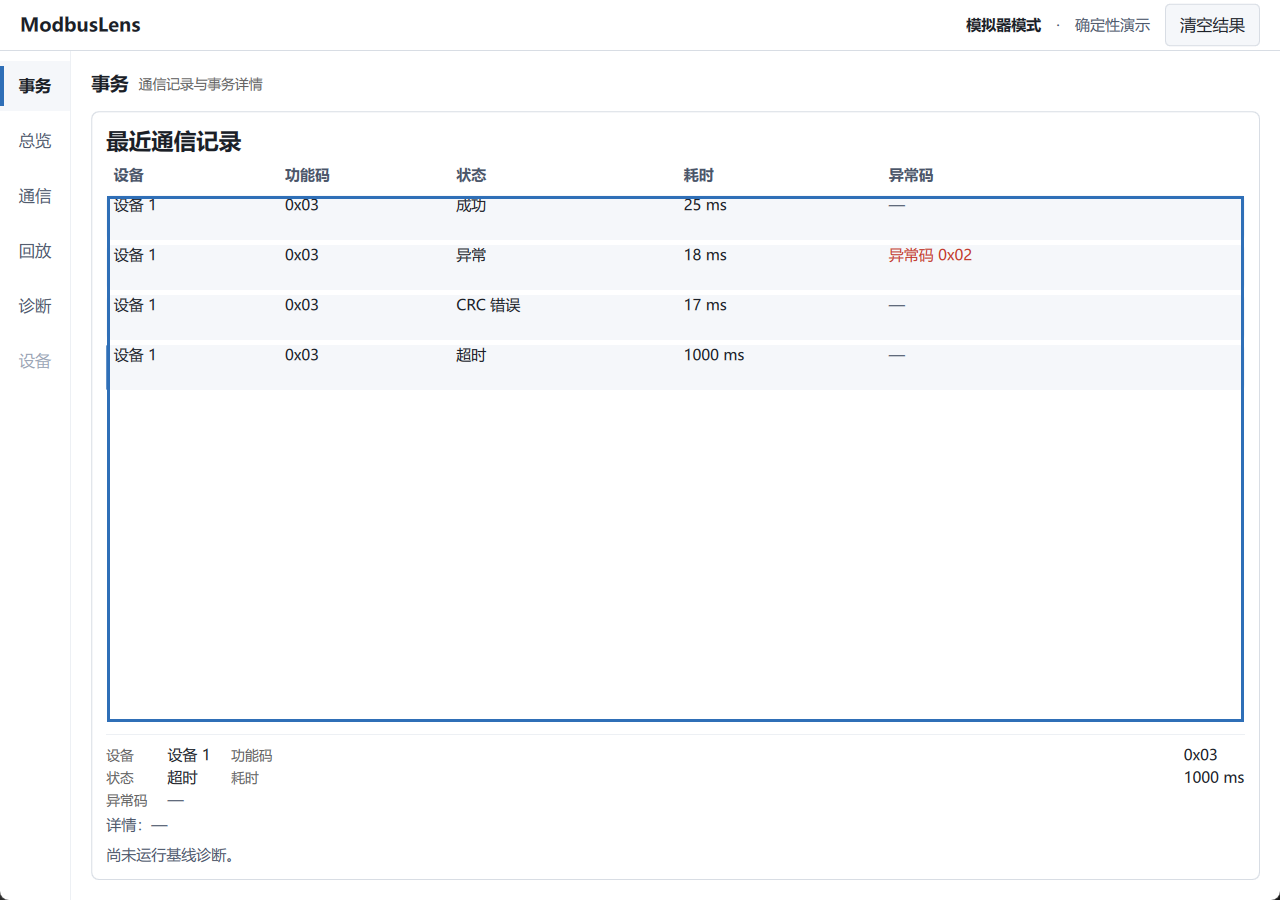
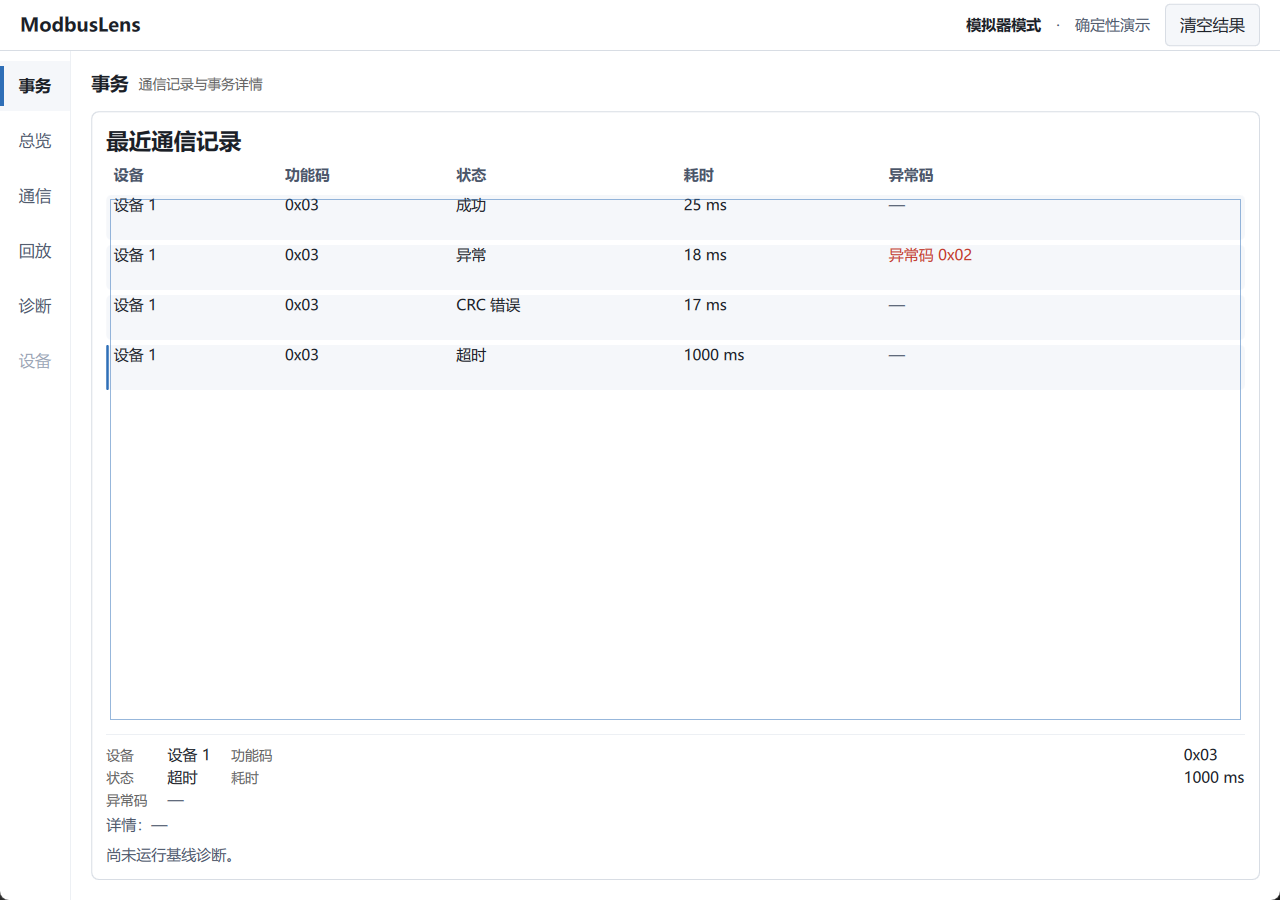
M9-F F2: soften Transactions focus indication
Visual correction for the F2 final visual review hold. The ListView
keyboard focus ring carried too much visual weight: a 2px fully
saturated blue frame around the whole viewport. Three concrete symptoms
were reported - the container ring out-shouted the row selection, it
used the same hue and the same weight as the selected row's own 2px
accent bar so the two states competed, and it framed a large empty area
and added noise. This is a visual hierarchy defect, not a missing focus
indication: the class is P1 visual/usability.

Only the Transactions ListView focus rendering changes. The ring is now
1px of DS.primary at half opacity, derived from the token with Qt.rgba
so the DesignSystem contract is untouched, and it is inset 3px instead
of 1px so it can never paint over the row's left selection indicator
(which occupies the first two pixels of the list). Selection semantics,
the row selection style, the detail logic, keyboard entry, the four
navigation keys, the ListView size, row geometry and the
NavigationRail, TabButton, AppButton and ComboBox treatments are all
untouched.

The review outcome is now a machine-checked contract rather than a
matter of eyeballing: scenario FJ asserts that the ring is visible
exactly while the list holds keyboard focus, that its border width is 1,
and that its colour alpha is at most 0.6. Measured: "FOCUS [FJ] PASS:
list ring visible, subordinate weight (1px, alpha=0.500008)" plus the
[…]

Changed region(s): [[0.0625, 0.7778, 0.9688, 0.8089], [0.0625, 0.2178, 0.9688, 0.2489]]

diff --git a/src/ui/qml/pages/TransactionsPage.qml b/src/ui/qml/pages/TransactionsPage.qml
@@ -386,25 +386,28 @@ Item {
                             }
                         }
 
-                        // M9-F F1 correction (P1, focus visibility): measured
-                        // rendering of the keyboard-focused list was a
-                        // zero-pixel diff — the row selection highlight was
-                        // the only visual, and it is a BUSINESS state (which
-                        // row is selected), not a focus state. This overlay is
-                        // the list's own keyboard-focus channel: an inset
-                        // border that costs no layout space and does not touch
-                        // row geometry, selection colors, the detail logic or
-                        // the list dimensions. The view hands active focus to
-                        // the current row once keyboard navigation starts
-                        // (M9-D D6), so either holder counts as "the list has
-                        // focus".
+                        // M9-F F2 visual review HOLD (P1 visual/usability
+                        // defect): the first version drew a 2px fully
+                        // saturated DS.primary frame around the WHOLE
+                        // viewport. It out-shouted the row selection — same
+                        // hue and same weight as the selected row's own 2px
+                        // accent bar, so the two states competed — and it
+                        // framed a large empty area, adding noise.
+                        // The focus channel must be clearly present but
+                        // SUBORDINATE: 1px of DS.primary at half opacity,
+                        // inset 3px so it never paints over the row's left
+                        // selection indicator. Selection stays the primary
+                        // visual state; this only answers "does the list hold
+                        // keyboard focus". Geometry, row height, selection
+                        // style and the detail logic are untouched.
                         Rectangle {
                             objectName: "transactionsListFocusRing"
                             anchors.fill: parent
-                            anchors.margins: 1
+                            anchors.margins: 3
                             color: "transparent"
-                            border.color: DS.primary
-                            border.width: 2
+                            border.color: Qt.rgba(DS.primary.r, DS.primary.g,
+                                                  DS.primary.b, 0.5)
+                            border.width: 1
                             visible: transactionList.activeFocus
                                      || (transactionList.currentItem !== null
                                          && transactionList.currentItem.activeFocus)

diff --git a/src/main.cpp b/src/main.cpp
@@ -4971,9 +4971,26 @@ int runFocusCheck(QQmlApplicationEngine &engine, QGuiApplication &app)
         if (!propBool(ring, "visible"))
             fail(QStringLiteral("FOCUSFAIL FJ: focus ring not visible while the "
                                 "list holds keyboard focus"));
-        else
-            note(QStringLiteral("FOCUS [FJ] PASS: list ring visible while the "
-                                "list is keyboard-focused"));
+        else {
+            // F2 visual review HOLD: the ring must stay SUBORDINATE to the row
+            // selection (the earlier 2px saturated frame out-shouted it), so
+            // the weight itself is part of the contract now.
+            QObject *border = ring->property("border").value<QObject *>();
+            const double width = border ? border->property("width").toDouble() : -1;
+            const QColor color = border
+                                     ? border->property("color").value<QColor>()
+                                     : QColor();
+            if (width != 1.0 || color.alphaF() > 0.6)
+                fail(QStringLiteral("FOCUSFAIL FJ: list focus ring is not "
+                                    "subordinate (width=%1 alpha=%2; expected "
+                                    "1px and alpha<=0.6)")
+                         .arg(width)
+                         .arg(color.alphaF()));
+            else
+                note(QStringLiteral("FOCUS [FJ] PASS: list ring visible, "
+                                    "subordinate weight (1px, alpha=%1)")
+                         .arg(color.alphaF()));
+        }
         tab(true);
     });
     push([&]() {

diff --git a/docs/PROJECT_STATUS.md b/docs/PROJECT_STATUS.md
@@ -13,10 +13,10 @@
 | Build 状态 | ✅ **通过** — Debug/MinGW 13.1.0/Qt 6.11.1（含 QtSerialPort 组件）/CMake 3.30.5（构建与链接零 error；仅 harness 内既有无害告警） |
 | Test 状态 | ✅ **26/26 通过（Release 构建）** + **14 趟几何**（**10 standard steps（5 active × 2，post-Legacy）+ 2 targeted demo-dashboard（C4）+ 2 targeted selected-detail（D3）**；diagnosis 2 steps 各 sweep 3 tabs ⇒ **printed segments = 18**——steps 与 segments 两口径分列；nav = basic five-workspace + A–T 20 项；M DEFERRED）+ **packaging 门禁**（结构/样本/StatisticsOverview retained/credential·path negative scans/manifest 1496/ZIP entries/fresh extraction/external-CWD/fail-closed probes 9/9） |
 | 已完成任务 | T001 · T001.1 · T002 · T003 · T004 · T005 · T006 · T007 · T008 · T009 · T010 · T011 · T012 · T013 · T014 · T015（V1 主线）· T016（M9-A）· **T017（M9-B = ✅ COMPLETE）** · **T018（M9-C = ✅ COMPLETE）** · **T019（M9-D = ✅ COMPLETE）** · **T020（M9-E = ✅ COMPLETE）** |
-| 当前任务（Current Task） | **M9-F — Final Manual Visual / Accessibility Acceptance（IN PROGRESS）**：canonical task doc = [T021](tasks/T021-m9f-final-visual-accessibility-acceptance.md)；**F1 = COMPLETE（accepted tree `b237ddc`）→ F2 完成**：从 b237ddc clean tree 全新 Release build（207 目标，exe 2,795,138 B）→ ctest **27/27** + smoke/nav/geometry(18·0·rail 56)/focus 全 PASS → PE（0x8664/x64、RT_ICON 6、2.0.0/2.0.0.0）→ deploy build/f2_deploy → package **ModbusLens-2.0.0-windows-x64**（payload 1496 + manifest 1 = entries 1497；**40,630,813 B / sha256 7292920b…**）→ fresh extraction 全门禁 → **packaged runtime focus CHECK PASS** → 15 张最终视觉证据（带运行时 state oracle）；**Final Visual Review = WAITING FOR USER**、**Manual Final Acceptance = WAITING FOR USER**；verified LKGC 保持 `4cb6e9d` |
+| 当前任务（Current Task） | **M9-F — Final Manual Visual / Accessibility Acceptance（IN PROGRESS）**：canonical task doc = [T021](tasks/T021-m9f-final-visual-accessibility-acceptance.md)；F1 = COMPLETE（`b237ddc`）→ F2 candidate 完成（ZIP 40,630,813 B / sha256 7292920b…）→ **F2 Final Visual Review = HOLD（ListView focus 视觉权重过强 = P1 hierarchy defect）→ 最小修正完成**：ring 改 1px + DS.primary@0.5 + margins 3（不覆盖 selection indicator），**FJ 新增权重断言（width==1 且 alpha≤0.6）**；Debug/Release ctest **27/27**、geometry 18·0·rail 56、nav PASS、Release focus gate PASS；截图已刷新；**注意：46f68ce 轮的 ZIP 早于本次修正 ⇒ visual review 通过后必须重新打包**；Final Visual Review / Manual Final Acceptance = WAITING FOR USER；verified LKGC 保持 `4cb6e9d` |
 | 最近完成任务（Last Completed Task） | **M9-E — Branding / Icon / Packaging = ✅ COMPLETE（T020；verified LKGC 推进 `07561d9` → `4cb6e9d`）**。此前：M9-D（`07561d9`）、M9-C（`bc754be`）、C4（`f41d081`）、C3（`9471772`）、C2（`07b03d1`）、M9-B5（`6cc84c3`）、M9-B4（`207ae96`）、M9-B3（`382ecfb`）、M9-B2（`53685d5`）、M9-B1（`189c62c`）、M9-A（`6562dd3`） |
-| 当前阶段（Current Phase） | **Project Phase：V2 Upgrade；Current Milestone：M9 — UI / UX Refresh（M9-A/B/C/D/E ✅）；Current Task Phase：M9-F — F2 final Release candidate 完成，等待 F2 Review + Final Visual Review + Manual Final Acceptance** |
-| 下一步动作（Next Action） | **M9-F F2 Review + Final Visual Review + Manual Final Acceptance（用户）**（T021 §FK0–§FK14：candidate = 本轮 ZIP `ModbusLens-2.0.0-windows-x64.zip`（40,630,813 B / sha256 7292920b…abdd826，local candidate identity 非 published hash）；**人工清单 14 项**（fresh extraction 起：双击启动 / Explorer 图标·版本 / 五 workspace 视觉 / rail selected vs focus / Device 禁用 / Tab·Shift+Tab / 焦点可见性 / Transactions 键盘 / Diagnosis 三 tab / Agent TextArea Tab 逃逸与编辑键 / Replay 加载随包 demo_v1.mlog / README / 1024×720 与 1000×700 / 关闭重启）；不要求真实串口硬件、真实 AI Provider、Agent live 服务；人工 PASS 前 LKGC 保持 `4cb6e9d`、F3 不启动） |
+| 当前阶段（Current Phase） | **Project Phase：V2 Upgrade；Current Milestone：M9 — UI / UX Refresh（M9-A/B/C/D/E ✅）；Current Task Phase：M9-F — F2 visual correction 完成，等待 Final Visual Review 重新确认（通过后需重新生成 package 再做 Manual Final Acceptance）** |
+| 下一步动作（Next Action） | **M9-F Final Visual Review（用户，重新确认 ListView focus 层级）**：查看刷新后的 `docs/assets/screenshots/m9f-f2-transactions-list-keyboard-focus-1024x720.png` —— 人工目标 = 一眼知道列表持焦，但第一视觉仍在选中行；**确认后**再执行：重新生成 F2 package（当前 ZIP 早于修正）→ 14 项 Manual Final Acceptance；在此之前 LKGC 保持 `4cb6e9d`、F3 不启动、不 push |
 | 下一 Part（Next Part） | 无（T012 Part B Phase 2 已随 T012 完成） |
 | 下一任务（Next Task After T016） | **M9-B Application Shell & Navigation = T017 进行中**（Phase 1 Learning & Design 已落库待 Review；实施按 T017 §13 的 B1→B5 逐步进行，每步独立 Review/提交） |
 | Known Issues | 见 §4 |
@@ -321,3 +321,4 @@ cmake --preset debug -DCMAKE_PREFIX_PATH=<Qt6前缀>
 | 2026-09-19 | **M9-F F1 Review = HOLD → F1 Correction（focus visibility 契约冲突 + TextArea edit-key runtime proof，behavior-bearing，不推进 LKGC）**：**HOLD 事实**：F1 主体 A–H 不被推翻、不重新设计；两个 blocker = ①部分 Tab-reachable controls 键盘焦点**无可感知指示**却被错分类为 P2/DEFER（违反冻结规则：焦点指示是 basic keyboard accessibility，非 optional polish，且禁用 P2 表示「完全没有 focus cue」）②Agent TextArea 的编辑键回归只有 source-level 推断、缺 runtime proof；**焦点可见性契约 re-freeze**：任何 Tab-reachable actionable control 获得键盘焦点后必须有可感知 focus indication，不得靠 selected/hover/pressed/value 反推；UIA 读滞后继续算 tooling note；**focused-control inventory（像素差分实测，PASS/P1 二元）**：AppButton（strong=0）**P1** / ComboBox（commPortCombo 自定义 background，strong=0）**P1** / TabButton（只读 checked，strong=0）**P1** / Transactions ListView（行选中是业务状态，list 区域 0 像素）**P1** / SpinBox（Fusion highlighted outline，strong=275）PASS / TextArea（caret+placeholder，strong=1252）PASS / Fusion plain Button（边框 200,200,200→91,129,173）PASS / rail（visualFocus 描边 strong=165）PASS；**minimal correction（只修实际受影响类型）**：AppButton border=焦点通道（visualFocus ⇒ width 2，secondary=DS.primary/primary=DS.background）；TransactionsPage 新增 `transactionsListFocusRing` 内缩 outline（visible = list.activeFocus ∥ currentItem.activeFocus，不占布局、不触碰行几何/选中配色/detail/尺寸）；commPortCombo+commBaudCombo 各加内缩 ring（未聚焦渲染零改动）；3 个 TabButton border 加 visualFocus 分支（focus 优先于 selected）；rail 描边保留未动；**TextArea runtime edit-key proof（FL）**：草稿 "abc\ndef" + 显式 cursorPosition，逐键注入并断言实际结果：Left 4→3 / Right 3→4 / Home 5→4 / End 4→7 / Up 4→0 / Down 1→5，每键同时断言 text 不变 + workspace 不变 + 不触发其它控件；FG/FH（Tab/Shift+Tab 逃脱 + draft 不变）重跑 PASS；**自动化扩展（qml_focus_check）**：FJ（list ring 随焦 on/off）+ FK（逐类型 activeFocus/visualFocus→indicator property/state：AppButton border 2/1、ComboBox ring visible、SpinBox activeFocus、TabButton border 2）+ FL；**post-fix 像素复测**：AppButton 0→strong=324、ComboBox 0→274、TabButton 0→806、ListView 单步差分 165→2457；SpinBox/TextArea/rail 未触碰且数值不变；**回归**：qml_focus_check PASS（FA/FJ/FB×5/FC/FD·FE×5/FF/FK/FL/FG/FH/FI）/ smoke PASS / nav PASS（A–T，M DEFERRED）/ geometry **18 segments·0 GEOFAIL·rail 宽度恒 56** / ctest Debug+Release **27/27**；Release configure/build+ctest+focus 全 PASS（完整 ZIP 留 F2）；**视觉证据 4 张**（rail 对比 / list 环+选中 / ComboBox 环 / AppButton 亮边）；**Focus Visual Review = WAITING FOR USER**；**探针缺陷 4 项**如实入档（隐藏页预取句柄 rect 失效 / SpinBox 内层 input rect 失配改 point-in-rect / 锚点 MouseFocusReason + Shift+Tab 方向错误改前向遍历+指针同一性 / 固定连按未验证落点改 walk-and-verify）；**边界**：未 amend 736d957、未 rebase、未 push、未创建 v2.0.0 tag、**verified LKGC 保持 `4cb6e9d`**、未开始 F2、未重新打包；docs：T021 §FH0–§FH9 + PROJECT_STATUS/BACKLOG/devlog/INTERVIEW_NOTES |
 | 2026-09-19 | **M9-F F1 Focus Visual Review = HOLD → TabButton 最小 focus-visual correction（behavior-bearing，不推进 LKGC）**：**人工实测现象**：Diagnosis 的 3 个 TabButtons 虽在真实 Tab traversal 中（press[8]/[9]/[10]，pane 始终 Baseline），键盘焦点**肉眼不可感知**；澄清 **不是 activation failure**（Tab 本就不应切换 selected page），而是 focus indication 可感知性不足；**Root Cause（以真实 rendering 为准）**：上一轮的实现只把既有边框改色/加粗（tab0 未聚焦 #B1B9C6→聚焦 #6393C9；未选中 #E2E6EB→#6393C9；bg/geometry/label 聚焦前后**逐字节不变**，像素差约 24%、maxΔ208）——cue 与 selected **共用同一条边框通道**，且自动判据只证明「有渲染变化」（FK 读的是 border.width==2 这一实现属性），两者都不能等价于「可辨认」；125% DPI 下 2.5 物理像素 + 未选中 tab 常态边框极浅（#E2E6EB）进一步削弱可抓取性；**Minimal fix**：3 个 TabButton 的 background **恢复原样**（selected 外观零改动），改为新增**独立内缩焦点环** Rectangle（objectName diagnosisTab<X>FocusRing，margins 2 + 2px DS.primary + radius 2，visible: visualFocus）——附加视觉元素而非既有元素变体，不占 layout、不改 tab height/TabBar geometry/selected appearance/DS contract；**GREEN**：聚焦时既有边框逐字节不变、行 5–7 出现 (47,111,183)=DS.primary 满饱和环（像素差 2821/2820）；FK 改为断言「环 visible 且 selected 边框仍为 1」+「焦点移走后环关闭」；**契约冻结**：selected 与 keyboard-focused 必须肉眼可区分、focus cue 不得依赖 bold/selected background、Tab 只移动 focus（Space 才 activate）；**回归**：qml_focus_check PASS / smoke PASS / nav PASS（A–T，M DEFERRED）/ geometry **18 segments·0 GEOFAIL·rail=56** / ctest Debug+Release **27/27** / Release configure·build·focus 全 PASS；**证据**：docs/assets/screenshots/m9f-f1-diagnosis-tab-focus-vs-selected-1024x720.png（Baseline=selected 且下方内容仍 Baseline；AI=keyboard focused 带环）；**Focus Visual Review = WAITING FOR USER**；**探针缺陷 3 项**入档（PowerShell 非 ASCII 字面量被 ANSI 破坏导致 focused 截图静默缺失→改 rect 同一性；多行 if 条件解析错误→单行；ShotWindow 相对路径写到仓库根→已移入 docs 并清理）；**边界**：未 amend 5089840、未 rebase、未 push、未创建 v2.0.0 tag、**verified LKGC 保持 `4cb6e9d`**、未开始 F2、未改 focus chain/selected semantics/Tab activation；docs：T021 §FI0–§FI8 + PROJECT_STATUS/BACKLOG/devlog/INTERVIEW_NOTES |
 | 2026-09-19 | **M9-F F2（Final Release / Visual Evidence Candidate）完成（behavior-bearing evidence，不推进 LKGC）**：**F1 Re-review = PASS / Focus Visual Review = PASS / F1 = COMPLETE（accepted tree = `b237ddc`）→ F2 = GO** 归档；**clean Release build**（rm -rf build/release → configure → build；Release/MinGW g++ 13.1.0/Qt 6.11.1 mingw_64/Ninja/CMake 3.30.5；**207 目标 0 error**；exe 2,795,138 B）；**Release 门禁**：ctest **27/27** + smoke（identity 2.0.0 + icon 6 尺寸）/ nav（A–T，M DEFERRED）/ geometry（**18 printed segments·0 GEOFAIL·rail 恒 56**）/ focus（FA/FJ/FB×5/FC/FD·FE×5/FF/FK/FL/FG/FH/FI）全 PASS；**identity/PE/icon/arch（本轮实测）**：PE Machine **0x8664 → x64**、RT_ICON **6**、RT_GROUP_ICON **1**、FileVersion/ProductVersion 2.0.0、Raw **2.0.0.0**、ProductName/FileDescription=ModbusLens、OriginalFilename=ModbusLens.exe、Company/Copyright 有意省略；**deploy**：改用 committed workflow（deploy_windows.bat 在本机空参数下丢 QT_BIN，cmd 空参数丢弃）→ `make_package.py` 自行派生工具链并 deploy 到本轮独立 **build/f2_deploy**；**package（packaging semantics 零改动）**：stem = **ModbusLens-2.0.0-windows-x64**（authority 派生 + 本轮 PE 实测）、staging/structural checks/negative scans（credential·config 文件名+文本、absolute-path 审计）/manifest/ZIP/entries 校验/fresh extraction/minimal-PATH 三模式/external-CWD **全 PASS**；**计数（本轮真实计数）**：payload **1496** + manifest 1 = ZIP entries **1497**；README.txt 与 demo_v1.mlog 存在；regression fixtures 不入包；StatisticsOverview retained；maintainer tooling 不入包；**ZIP identity（accepted F2 local candidate，非 published hash、非 byte-reproducible claim）**：**40,630,813 B / sha256 7292920b…abdd826**；**fresh extraction**：build/package-extract/ModbusLens-2.0.0-windows-x64（逐文件 == manifest）；**所有 package runtime 验证与最终截图均从该 fresh extraction 运行**；**extracted focus regression**：minimal-PATH 下 smoke PASS / nav PASS / **focus CHECK PASS（F1 契约在 packaged runtime 真实成立）**；工具缺陷入档（package 只带 windows 平台插件 ⇒ 强制 QT_QPA_PLATFORM=offscreen 会 STATUS_DLL_INIT_FAILED，committed 脚本从不设置该变量）；**最终视觉矩阵 15 张**（125% DPI；1024×720 ×12 + 1000×700 ×3；每张带运行时 state oracle：workspace 归属 + 页面专属可见元素 + selected/focused 状态 + rect 同一性）→ docs/assets/screenshots/m9f-f2-*；**边界**：Communication 只接受 disconnected/default；AI pane 如实记录为 **provider 已配置但未生成结果**（无伪造）；Agent pane 未发起 live 调用；**F2 Review Gate 全部达成** ⇒ **Final Visual Review = WAITING FOR USER**、**Manual Final Acceptance = WAITING FOR USER**（manual checklist 14 项已写入 T021 §FK13）；**Git**：production diff **0**（仅 docs + 截图）、未 amend b237ddc、未 rebase、未 push、未创建 v2.0.0 tag、**verified LKGC 保持 `4cb6e9d`**、未开始 F3；docs：T021 §FK0–§FK14 + PROJECT_STATUS/BACKLOG/devlog/INTERVIEW_NOTES |
+| 2026-09-19 | **M9-F F2 Final Visual Review = HOLD → ListView focus 视觉权重最小修正（behavior-bearing，不推进 LKGC）**：人工判定 = **focus visibility 过强 / visual hierarchy defect（P1 visual/usability，不是 focus 缺失）**：2px 高饱和整框 ①比 row selection 抢眼 ②与选中行左侧 2px DS.primary 条同色同重量互相竞争 ③包围大块空白 ⇒ 噪声高；**Root Cause**：F1 的 ring 用容器尺度的 border.width=2 + 不透明 DS.primary，与行级 selection indicator 同通道同重量；**最小修正**：border.width 2 → **1**、颜色 → **Qt.rgba(DS.primary…, 0.5)**（由 token 派生，未改 DS contract）、margins 1 → **3**（永不覆盖行左侧 selection indicator）；未动 selection 语义/row 样式/detail 逻辑/键盘入口/四键/几何/rail/TabButton/AppButton/ComboBox；**契约冻结 + 机器断言**：FJ 现断言 ring visible ⇔ 持焦 **且 border.width==1 且 alpha<=0.6**（实测 alpha=0.500008 PASS）——未来改回粗高饱和环会直接失败；**回归**：Debug focus/geometry(**18·0·rail 56**)/nav/ctest **27/27**；Release build + ctest **27/27** + focus gate PASS；**证据刷新**：m9f-f2-transactions-list-keyboard-focus-1024x720.png 重新生成（Tab 第 8 次进入 list + END 选中；选中行仍为第一视觉，焦点为细淡内缩线）；**provenance**：截图来自修正后的 Release build；46f68ce 轮 ZIP **早于本次修正**，visual review 通过后必须重新打包再做最终 acceptance；**边界**：未推进 LKGC（保持 `4cb6e9d`）、未 push、未创建 v2.0.0 tag、未开始 F3、packaging semantics 未变；docs：T021 §FL0–§FL7 + PROJECT_STATUS/BACKLOG/devlog/INTERVIEW_NOTES |

diff --git a/docs/BACKLOG.md b/docs/BACKLOG.md
@@ -47,7 +47,7 @@
 | T018 | **M9-C Dashboard Redesign** | M9 | P0 | **✅ COMPLETE**（C1–C5 全部完成；C2/C3/C4 Review PASS；Screenshot Visual + Manual Interaction PASS；**verified LKGC `bc754be`**；closure 见 T018 §C6） |
 | T019 | **M9-D Transaction & Diagnosis Workspace** | M9 | P0 | **canonical task doc = [T019](tasks/T019-m9d-transaction-diagnosis-workspace.md)** = ✅ **COMPLETE（2026-09-19 Final Closure）**：Phase 1 + D1–D6 全 PASS；Screenshot Visual Review = PASS；Manual Interaction Review = PASS（mouse/Up/Down/Home/End/boundary/nav-away-back 全确认）；**verified LKGC = `07561d9`**；冻结契约与知识闭全入档；StatisticsOverview ownership decision 与 filters/search 留档 DEFER |
 | T020 | **M9-E Branding / Icon / Packaging** | M9 | P1 | **canonical task doc = [T020](tasks/T020-m9e-branding-icon-packaging.md)** = ✅ **COMPLETE（2026-09-19 Final Closure）**：Phase 1 = PASS（含 correction）；E1 = PASS（含 correction）；E2 = PASS + Manual Icon Visual PASS；E3 = PASS（含 correction）；E4 = PASS；**Manual Package Acceptance = PASS**；**verified LKGC = `4cb6e9d`**；StatisticsOverview cleanup 与 filters/search 留档 DEFER |
-| T021 | **M9-F Final Manual Visual / Accessibility Acceptance** | M9 | P1 | **canonical task doc = [T021](tasks/T021-m9f-final-visual-accessibility-acceptance.md)**；F1 = COMPLETE（accepted tree `b237ddc`）→ **F2 完成**：clean Release build（207 目标）→ ctest **27/27** + smoke/nav/geometry(18·0·rail 56)/focus 全 PASS → PE（x64、RT_ICON 6、2.0.0/2.0.0.0）→ deploy → package **ModbusLens-2.0.0-windows-x64**（payload 1496/manifest 1/entries 1497；40,630,813 B；sha256 7292920b…）→ fresh extraction 全门禁 → **packaged runtime focus PASS** → **15 张最终视觉证据**（state oracle 齐全）；**Final Visual Review = WAITING FOR USER**、**Manual Final Acceptance = WAITING FOR USER**（14 项清单见 T021 §FK13）；verified LKGC 保持 `4cb6e9d`，等人工 acceptance 后由 F3 closure 推进 |
+| T021 | **M9-F Final Manual Visual / Accessibility Acceptance** | M9 | P1 | **canonical task doc = [T021](tasks/T021-m9f-final-visual-accessibility-acceptance.md)**；F1 = COMPLETE（`b237ddc`）→ F2 candidate（clean Release build、ctest 27/27、package 1496/1497 entries、ZIP 40,630,813 B、packaged focus PASS、15 张视觉证据）→ **F2 Final Visual Review = HOLD → ListView focus 层级最小修正**（ring 2px 高饱和 → **1px + DS.primary@0.5 + margins 3**；FJ 断言 width==1 且 alpha≤0.6；Debug/Release ctest 27/27；geometry 18·0·rail 56）；**46f68ce 轮 ZIP 早于修正 ⇒ 视觉确认后必须重新打包**；Final Visual Review / Manual Final Acceptance = WAITING FOR USER；verified LKGC 保持 `4cb6e9d` |
 
 ## 建议路线（默认执行顺序）
 
@@ -252,3 +252,4 @@ T001 ✅ → T001.1 ✅ → T002 CRC16 ✅ → T003 Frame Model ✅ → T004 Cod
 | 2026-09-19 | **M9-F F1 Review = HOLD → F1 Correction（focus visibility 契约冲突 + TextArea edit-key runtime proof，behavior-bearing，不推进 LKGC）**：**HOLD 事实**：F1 主体 A–H 不被推翻、不重新设计；两个 blocker = ①部分 Tab-reachable controls 键盘焦点**无可感知指示**却被错分类为 P2/DEFER（违反冻结规则：焦点指示是 basic keyboard accessibility，非 optional polish，且禁用 P2 表示「完全没有 focus cue」）②Agent TextArea 的编辑键回归只有 source-level 推断、缺 runtime proof；**焦点可见性契约 re-freeze**：任何 Tab-reachable actionable control 获得键盘焦点后必须有可感知 focus indication，不得靠 selected/hover/pressed/value 反推；UIA 读滞后继续算 tooling note；**focused-control inventory（像素差分实测，PASS/P1 二元）**：AppButton（strong=0）**P1** / ComboBox（commPortCombo 自定义 background，strong=0）**P1** / TabButton（只读 checked，strong=0）**P1** / Transactions ListView（行选中是业务状态，list 区域 0 像素）**P1** / SpinBox（Fusion highlighted outline，strong=275）PASS / TextArea（caret+placeholder，strong=1252）PASS / Fusion plain Button（边框 200,200,200→91,129,173）PASS / rail（visualFocus 描边 strong=165）PASS；**minimal correction（只修实际受影响类型）**：AppButton border=焦点通道（visualFocus ⇒ width 2，secondary=DS.primary/primary=DS.background）；TransactionsPage 新增 `transactionsListFocusRing` 内缩 outline（visible = list.activeFocus ∥ currentItem.activeFocus，不占布局、不触碰行几何/选中配色/detail/尺寸）；commPortCombo+commBaudCombo 各加内缩 ring（未聚焦渲染零改动）；3 个 TabButton border 加 visualFocus 分支（focus 优先于 selected）；rail 描边保留未动；**TextArea runtime edit-key proof（FL）**：草稿 "abc\ndef" + 显式 cursorPosition，逐键注入并断言实际结果：Left 4→3 / Right 3→4 / Home 5→4 / End 4→7 / Up 4→0 / Down 1→5，每键同时断言 text 不变 + workspace 不变 + 不触发其它控件；FG/FH（Tab/Shift+Tab 逃脱 + draft 不变）重跑 PASS；**自动化扩展（qml_focus_check）**：FJ（list ring 随焦 on/off）+ FK（逐类型 activeFocus/visualFocus→indicator property/state：AppButton border 2/1、ComboBox ring visible、SpinBox activeFocus、TabButton border 2）+ FL；**post-fix 像素复测**：AppButton 0→strong=324、ComboBox 0→274、TabButton 0→806、ListView 单步差分 165→2457；SpinBox/TextArea/rail 未触碰且数值不变；**回归**：qml_focus_check PASS（FA/FJ/FB×5/FC/FD·FE×5/FF/FK/FL/FG/FH/FI）/ smoke PASS / nav PASS（A–T，M DEFERRED）/ geometry **18 segments·0 GEOFAIL·rail 宽度恒 56** / ctest Debug+Release **27/27**；Release configure/build+ctest+focus 全 PASS（完整 ZIP 留 F2）；**视觉证据 4 张**（rail 对比 / list 环+选中 / ComboBox 环 / AppButton 亮边）；**Focus Visual Review = WAITING FOR USER**；**探针缺陷 4 项**如实入档（隐藏页预取句柄 rect 失效 / SpinBox 内层 input rect 失配改 point-in-rect / 锚点 MouseFocusReason + Shift+Tab 方向错误改前向遍历+指针同一性 / 固定连按未验证落点改 walk-and-verify）；**边界**：未 amend 736d957、未 rebase、未 push、未创建 v2.0.0 tag、**verified LKGC 保持 `4cb6e9d`**、未开始 F2、未重新打包；docs：T021 §FH0–§FH9 + PROJECT_STATUS/BACKLOG/devlog/INTERVIEW_NOTES |
 | 2026-09-19 | **M9-F F1 Focus Visual Review = HOLD → TabButton 最小 focus-visual correction（behavior-bearing，不推进 LKGC）**：**人工实测现象**：Diagnosis 的 3 个 TabButtons 虽在真实 Tab traversal 中（press[8]/[9]/[10]，pane 始终 Baseline），键盘焦点**肉眼不可感知**；澄清 **不是 activation failure**（Tab 本就不应切换 selected page），而是 focus indication 可感知性不足；**Root Cause（以真实 rendering 为准）**：上一轮的实现只把既有边框改色/加粗（tab0 未聚焦 #B1B9C6→聚焦 #6393C9；未选中 #E2E6EB→#6393C9；bg/geometry/label 聚焦前后**逐字节不变**，像素差约 24%、maxΔ208）——cue 与 selected **共用同一条边框通道**，且自动判据只证明「有渲染变化」（FK 读的是 border.width==2 这一实现属性），两者都不能等价于「可辨认」；125% DPI 下 2.5 物理像素 + 未选中 tab 常态边框极浅（#E2E6EB）进一步削弱可抓取性；**Minimal fix**：3 个 TabButton 的 background **恢复原样**（selected 外观零改动），改为新增**独立内缩焦点环** Rectangle（objectName diagnosisTab<X>FocusRing，margins 2 + 2px DS.primary + radius 2，visible: visualFocus）——附加视觉元素而非既有元素变体，不占 layout、不改 tab height/TabBar geometry/selected appearance/DS contract；**GREEN**：聚焦时既有边框逐字节不变、行 5–7 出现 (47,111,183)=DS.primary 满饱和环（像素差 2821/2820）；FK 改为断言「环 visible 且 selected 边框仍为 1」+「焦点移走后环关闭」；**契约冻结**：selected 与 keyboard-focused 必须肉眼可区分、focus cue 不得依赖 bold/selected background、Tab 只移动 focus（Space 才 activate）；**回归**：qml_focus_check PASS / smoke PASS / nav PASS（A–T，M DEFERRED）/ geometry **18 segments·0 GEOFAIL·rail=56** / ctest Debug+Release **27/27** / Release configure·build·focus 全 PASS；**证据**：docs/assets/screenshots/m9f-f1-diagnosis-tab-focus-vs-selected-1024x720.png（Baseline=selected 且下方内容仍 Baseline；AI=keyboard focused 带环）；**Focus Visual Review = WAITING FOR USER**；**探针缺陷 3 项**入档（PowerShell 非 ASCII 字面量被 ANSI 破坏导致 focused 截图静默缺失→改 rect 同一性；多行 if 条件解析错误→单行；ShotWindow 相对路径写到仓库根→已移入 docs 并清理）；**边界**：未 amend 5089840、未 rebase、未 push、未创建 v2.0.0 tag、**verified LKGC 保持 `4cb6e9d`**、未开始 F2、未改 focus chain/selected semantics/Tab activation；docs：T021 §FI0–§FI8 + PROJECT_STATUS/BACKLOG/devlog/INTERVIEW_NOTES |
 | 2026-09-19 | **M9-F F2（Final Release / Visual Evidence Candidate）完成（behavior-bearing evidence，不推进 LKGC）**：**F1 Re-review = PASS / Focus Visual Review = PASS / F1 = COMPLETE（accepted tree = `b237ddc`）→ F2 = GO** 归档；**clean Release build**（rm -rf build/release → configure → build；Release/MinGW g++ 13.1.0/Qt 6.11.1 mingw_64/Ninja/CMake 3.30.5；**207 目标 0 error**；exe 2,795,138 B）；**Release 门禁**：ctest **27/27** + smoke（identity 2.0.0 + icon 6 尺寸）/ nav（A–T，M DEFERRED）/ geometry（**18 printed segments·0 GEOFAIL·rail 恒 56**）/ focus（FA/FJ/FB×5/FC/FD·FE×5/FF/FK/FL/FG/FH/FI）全 PASS；**identity/PE/icon/arch（本轮实测）**：PE Machine **0x8664 → x64**、RT_ICON **6**、RT_GROUP_ICON **1**、FileVersion/ProductVersion 2.0.0、Raw **2.0.0.0**、ProductName/FileDescription=ModbusLens、OriginalFilename=ModbusLens.exe、Company/Copyright 有意省略；**deploy**：改用 committed workflow（deploy_windows.bat 在本机空参数下丢 QT_BIN，cmd 空参数丢弃）→ `make_package.py` 自行派生工具链并 deploy 到本轮独立 **build/f2_deploy**；**package（packaging semantics 零改动）**：stem = **ModbusLens-2.0.0-windows-x64**（authority 派生 + 本轮 PE 实测）、staging/structural checks/negative scans（credential·config 文件名+文本、absolute-path 审计）/manifest/ZIP/entries 校验/fresh extraction/minimal-PATH 三模式/external-CWD **全 PASS**；**计数（本轮真实计数）**：payload **1496** + manifest 1 = ZIP entries **1497**；README.txt 与 demo_v1.mlog 存在；regression fixtures 不入包；StatisticsOverview retained；maintainer tooling 不入包；**ZIP identity（accepted F2 local candidate，非 published hash、非 byte-reproducible claim）**：**40,630,813 B / sha256 7292920b…abdd826**；**fresh extraction**：build/package-extract/ModbusLens-2.0.0-windows-x64（逐文件 == manifest）；**所有 package runtime 验证与最终截图均从该 fresh extraction 运行**；**extracted focus regression**：minimal-PATH 下 smoke PASS / nav PASS / **focus CHECK PASS（F1 契约在 packaged runtime 真实成立）**；工具缺陷入档（package 只带 windows 平台插件 ⇒ 强制 QT_QPA_PLATFORM=offscreen 会 STATUS_DLL_INIT_FAILED，committed 脚本从不设置该变量）；**最终视觉矩阵 15 张**（125% DPI；1024×720 ×12 + 1000×700 ×3；每张带运行时 state oracle：workspace 归属 + 页面专属可见元素 + selected/focused 状态 + rect 同一性）→ docs/assets/screenshots/m9f-f2-*；**边界**：Communication 只接受 disconnected/default；AI pane 如实记录为 **provider 已配置但未生成结果**（无伪造）；Agent pane 未发起 live 调用；**F2 Review Gate 全部达成** ⇒ **Final Visual Review = WAITING FOR USER**、**Manual Final Acceptance = WAITING FOR USER**（manual checklist 14 项已写入 T021 §FK13）；**Git**：production diff **0**（仅 docs + 截图）、未 amend b237ddc、未 rebase、未 push、未创建 v2.0.0 tag、**verified LKGC 保持 `4cb6e9d`**、未开始 F3；docs：T021 §FK0–§FK14 + PROJECT_STATUS/BACKLOG/devlog/INTERVIEW_NOTES |
+| 2026-09-19 | **M9-F F2 Final Visual Review = HOLD → ListView focus 视觉权重最小修正（behavior-bearing，不推进 LKGC）**：人工判定 = **focus visibility 过强 / visual hierarchy defect（P1 visual/usability，不是 focus 缺失）**：2px 高饱和整框 ①比 row selection 抢眼 ②与选中行左侧 2px DS.primary 条同色同重量互相竞争 ③包围大块空白 ⇒ 噪声高；**Root Cause**：F1 的 ring 用容器尺度的 border.width=2 + 不透明 DS.primary，与行级 selection indicator 同通道同重量；**最小修正**：border.width 2 → **1**、颜色 → **Qt.rgba(DS.primary…, 0.5)**（由 token 派生，未改 DS contract）、margins 1 → **3**（永不覆盖行左侧 selection indicator）；未动 selection 语义/row 样式/detail 逻辑/键盘入口/四键/几何/rail/TabButton/AppButton/ComboBox；**契约冻结 + 机器断言**：FJ 现断言 ring visible ⇔ 持焦 **且 border.width==1 且 alpha<=0.6**（实测 alpha=0.500008 PASS）——未来改回粗高饱和环会直接失败；**回归**：Debug focus/geometry(**18·0·rail 56**)/nav/ctest **27/27**；Release build + ctest **27/27** + focus gate PASS；**证据刷新**：m9f-f2-transactions-list-keyboard-focus-1024x720.png 重新生成（Tab 第 8 次进入 list + END 选中；选中行仍为第一视觉，焦点为细淡内缩线）；**provenance**：截图来自修正后的 Release build；46f68ce 轮 ZIP **早于本次修正**，visual review 通过后必须重新打包再做最终 acceptance；**边界**：未推进 LKGC（保持 `4cb6e9d`）、未 push、未创建 v2.0.0 tag、未开始 F3、packaging semantics 未变；docs：T021 §FL0–§FL7 + PROJECT_STATUS/BACKLOG/devlog/INTERVIEW_NOTES |

diff --git a/docs/tasks/T021-m9f-final-visual-accessibility-acceptance.md b/docs/tasks/T021-m9f-final-visual-accessibility-acceptance.md
@@ -1777,3 +1777,89 @@ deploy PASS、package PASS、fresh extract PASS、manifest PASS、security scan 
 visual evidence candidate generated —— 全部达成。
 Final Visual Review = WAITING FOR USER；Manual Final Acceptance = WAITING FOR USER。
 ```
+
+## F2 Final Visual Review = HOLD（ListView focus 视觉权重过强）→ Minimal Visual Correction（2026-09-19，append-only，behavior-bearing）
+
+> 人工发现：**Transactions ListView 的 keyboard focus indicator 视觉权重过高**——整块 ListView 使用 2px 高饱和蓝色粗边框。
+> 明确分类：**不是 focus visibility 缺失，而是 focus visibility 过强 / visual hierarchy defect ⇒ P1 visual/usability defect**。
+> 本轮**只修 Transactions ListView 的 focus rendering**；不动 selection semantics / row selection style / detail logic /
+> keyboard entry / Up·Down·Home·End / geometry / NavigationRail / TabButton / AppButton / ComboBox。
+
+### FL0. HOLD 归档（三条具体症状，用户人工 review）
+
+```text
+1  focus container ring 比 row selection 更抢眼；
+2  与 selected row 左侧蓝色小条使用相近强调色与强度 ⇒ 两种状态互相竞争；
+3  大面积空白区域也被整框包围 ⇒ 视觉噪声过高。
+目标（人工验收口径）：一眼知道「列表现在有键盘焦点」，但第一视觉仍然落在「当前选中的是哪一行」。
+```
+
+### FL1. Root Cause
+
+```text
+F1 修正引入的 transactionsListFocusRing 使用 border.width=2 + 不透明 DS.primary 画在**容器**尺度上：
+  · 与选中行的 2px DS.primary 左侧条**同色同重量**，且行条就在容器左内缘附近 ⇒ 两个状态读起来是同一种强调；
+  · 容器边框包围的是**整个视口**（含大块空白），权重 × 面积 ⇒ 噪声远高于行级选中提示。
+即：焦点通道"存在且可见"这一条成立，但**没有服从视觉层级**（selection 才是主状态）。
+```
+
+### FL2. Minimal Correction（只改这一处渲染）
+
+```text
+src/ui/qml/pages/TransactionsPage.qml → transactionsListFocusRing
+  border.width : 2 → **1**
+  border.color : DS.primary（不透明）→ **Qt.rgba(DS.primary.r, DS.primary.g, DS.primary.b, 0.5)**（半透明，由 token 派生，未改 DS contract）
+  anchors.margins : 1 → **3**（内缩更远，**永不覆盖**行左侧 2px selection indicator）
+未改：selection semantics、row selection style、detail logic、keyboard entry、Up/Down/Home/End、
+      ListView 尺寸、row geometry/height、NavigationRail、TabButton、AppButton、ComboBox、DS token contract。
+```
+
+### FL3. 契约冻结（本轮新增，写进机器断言）
+
+```text
+selected row 仍是主要视觉状态；
+ListView keyboard focus 必须清楚但克制（subordinate）；
+focus indicator 不得覆盖左侧 selection indicator；
+不改变 ListView 尺寸与 row geometry。
+⇒ 该"权重"契约进入 FJ 机器断言（见 FL4），未来若有人把环改回 2px 高饱和，gate 直接失败。
+```
+
+### FL4. 机器断言（qml_focus_check / FJ 扩展）
+
+```text
+FJ 现在断言：ring.visible ⇔ list 持焦；**border.width == 1**；**border.color.alphaF() <= 0.6**。
+实测输出：
+  FOCUS [FJ] PASS: list ring visible, subordinate weight (1px, alpha=0.500008)
+  FOCUS [FJ] PASS: ring off after focus leaves the list (focus=appBarClearResults)
+```
+
+### FL5. 回归（全部重跑）
+
+```text
+Debug   : --qml-focus-check PASS / --qml-geometry-check PASS（**18 segments · 0 GEOFAIL · rail 恒 56**）/
+          --qml-nav-check PASS（A–T，M DEFERRED）/ ctest **27/27**
+Release : build OK → ctest **27/27** → --qml-focus-check PASS（FJ subordinate weight 断言通过）/ geometry PASS
+```
+
+### FL6. 证据刷新
+
+```text
+重新生成 Transactions keyboard-focus 截图（state oracle：keyboard-only Tab 第 8 次进入 list + END 选中行，
+detail pane 填充），覆盖 committed：
+  docs/assets/screenshots/m9f-f2-transactions-list-keyboard-focus-1024x720.png（1280×900 = 逻辑 1024×720，125% DPI）
+肉眼核对结果（ZCode 仅做完整性与状态核对，最终判断仍归用户）：
+  选中行（含 2px 高饱和左侧条 + 底纹）为**第一视觉**；ListView 焦点为**细、淡、内缩**的一圈线，可见但不抢眼；
+  环位于 x=3 内侧，**未覆盖**行左侧 indicator。
+provenance 说明（重要）：本截图来自**修正后的 Release build**（build/release）；
+  46f68ce 轮的 F2 ZIP（ModbusLens-2.0.0-windows-x64.zip，40,630,813 B / 7292920b…）**早于本次修正**，
+  因此**不能**再作为最终 acceptance candidate —— visual review 通过后必须重新生成 package（下一轮 F2 收尾步骤）。
+```
+
+### FL7. Git / 边界
+
+```text
+behavior-bearing visual correction（QML focus rendering + harness 断言）。
+未推进 verified LKGC（保持 4cb6e9d）；未 push；未创建 v2.0.0 tag；未开始 F3；
+未改 packaging semantics；未改 version/PE/icon/README/manifest/ZIP 模型；
+未触碰 NavigationRail / TabButton / AppButton / ComboBox / selection 语义 / geometry。
+Final Visual Review 仍需用户基于刷新后的截图确认；Manual Final Acceptance = WAITING FOR USER。

diff --git a/docs/INTERVIEW_NOTES.md b/docs/INTERVIEW_NOTES.md
@@ -620,3 +620,10 @@
 - **Q：为什么 AI/Agent 截图不能写“offline/not-configured”？** A：因为我拍完一看发现 AI pane 实际显示的是“模型配置: ModelScope — 模型: Qwen/Qwen3.5-27B”——provider 是**已配置**的，只是没有生成结果。如果我照旧标成“not-configured”，就是用一个方便的措辞掩盖真实状态。正确做法是把截图改名为 no-result 并如实描述。
 - **Q：为什么不能自己判定“最终视觉 PASS”？** A：机器能验的是尺寸、非空白、状态身份与完整性；“好不好看、焦点明不明显”只能由人判断。上一轮 TabButton 的 HOLD 正是这个道理的反面教材：机器说“有变化”，人说“看不出”，最后人对。
 - **Q：F2 完成后为什么 LKGC 还不能推进？** A：LKGC 的定义里包含“人工验收”。F2 只是**候选**：自动化全绿、包已生成、证据已齐，但用户还没在真实 UI 里走完 14 项清单。推进留给 F3 closure，基于最终被接受的 behavior tree 做 classification。
+
+## 66. Post-T021 M9-F F2 Visual Correction 条目（2026-09-19 追加）
+
+- **Q：为什么“焦点可见”做到了还会 HOLD？** A：因为可见与层级是两件事。我把列表焦点画成了 2px 高饱和蓝色整框，于是它和“选中行的 2px 蓝色条”**同色同重量**，用户看到两个同级别的强调，反而不知道该看哪个。正确的设计是：选中行（业务状态）为主，焦点（辅助状态）为次。
+- **Q：为什么把 rings 的 margins 从 1 改成 3？** A：因为选中行的指示条就在列表左内缘（x=0..2）；1px 的环在 x=1 会**压在选中标记上**（用户明确要求不覆盖）。内缩 3px 后环位于 x=3，两者完全分离。
+- **Q：为什么要把“环的重量”写成机器断言？** A：因为这次的缺陷正是“实现属性看起来正确、但视觉结果不对”。既然审阅给出了明确的权重要求（1px、半透明），就把它固化成 FJ 的断言：`border.width == 1 && alphaF() <= 0.6`。以后任何人把环改回粗高饱和，CI 会直接报错，而不是靠人再次用眼睛发现。
+- **Q：为什么修正后包不能直接算数？** A：因为 46f68ce 那一轮打的 ZIP 是从**修正前**的树生成的，它里面的 exe 还是旧的焦点画法。如果拿它去做最终人工验收，验收的就不是审阅通过的那个行为。所以必须先重新打包。“证据链不能断”在这里具体成一句话：**人工验收的必须是人工审阅的同一个包**。

diff --git a/docs/devlog/2026-09-17-m9b5-phase1.md b/docs/devlog/2026-09-17-m9b5-phase1.md
@@ -753,3 +753,16 @@
 - **F2 Review Gate 全部达成**；**Final Visual Review = WAITING FOR USER**；**Manual Final Acceptance = WAITING FOR USER**（14 项清单已写入 T021 §FK13）。
 - **Git**：production diff 0（仅 docs + 截图）；未 amend b237ddc、未 rebase、未 push、未创建 v2.0.0 tag、**verified LKGC 保持 `4cb6e9d`**、未开始 F3。
 - 下一步：**M9-F F2 Review + Final Visual Review + Manual Final Acceptance（用户）**。
+
+## M9-F F2 Final Visual Review = HOLD → ListView focus 层级最小修正（2026-09-19，behavior-bearing）
+
+- 人工判定：**Transactions ListView 的 keyboard focus indicator 视觉权重过高**（2px 高饱和蓝色整框）。分类：**P1 visual/usability —— focus visibility 过强 / visual hierarchy defect**，不是 focus 缺失。
+- 三条症状：①容器环比 row selection 抢眼 ②与选中行左侧 2px DS.primary 条同色同重量、互相竞争 ③包围大块空白 ⇒ 噪声高。
+- **最小修正**：border.width **2 → 1**；border.color **DS.primary → Qt.rgba(DS.primary…, 0.5)**（由 token 派生，DS contract 未变）；anchors.margins **1 → 3**（永不覆盖行左侧 selection indicator）。
+- **未动**：selection semantics / row selection style / detail logic / keyboard entry / Up·Down·Home·End / ListView 尺寸 / row geometry / NavigationRail / TabButton / AppButton / ComboBox。
+- **契约 + 机器断言**：FJ 现断言 ring visible ⇔ 持焦、**border.width==1**、**alpha<=0.6**（实测 alpha=0.500008 PASS）——未来若改回粗高饱和环会直接失败。
+- **回归**：Debug focus/geometry（**18 segments·0 GEOFAIL·rail 56**）/nav PASS + ctest **27/27**；Release build + ctest **27/27** + focus gate PASS。
+- **证据刷新**：m9f-f2-transactions-list-keyboard-focus-1024x720.png 重新生成（Tab 第 8 次进入 list + END 选中；选中行仍为第一视觉，焦点为细淡内缩线）。
+- **provenance**：截图来自修正后的 Release build；**46f68ce 轮的 F2 ZIP 早于本次修正** ⇒ 不再作为最终 acceptance candidate，visual review 通过后必须重新打包。
+- 没做：推进 LKGC、F3、push、v2.0.0 tag、packaging semantics 变更。
+- 下一步：**Final Visual Review（用户，重新确认）** → 通过后重新生成 package → Manual Final Acceptance。
